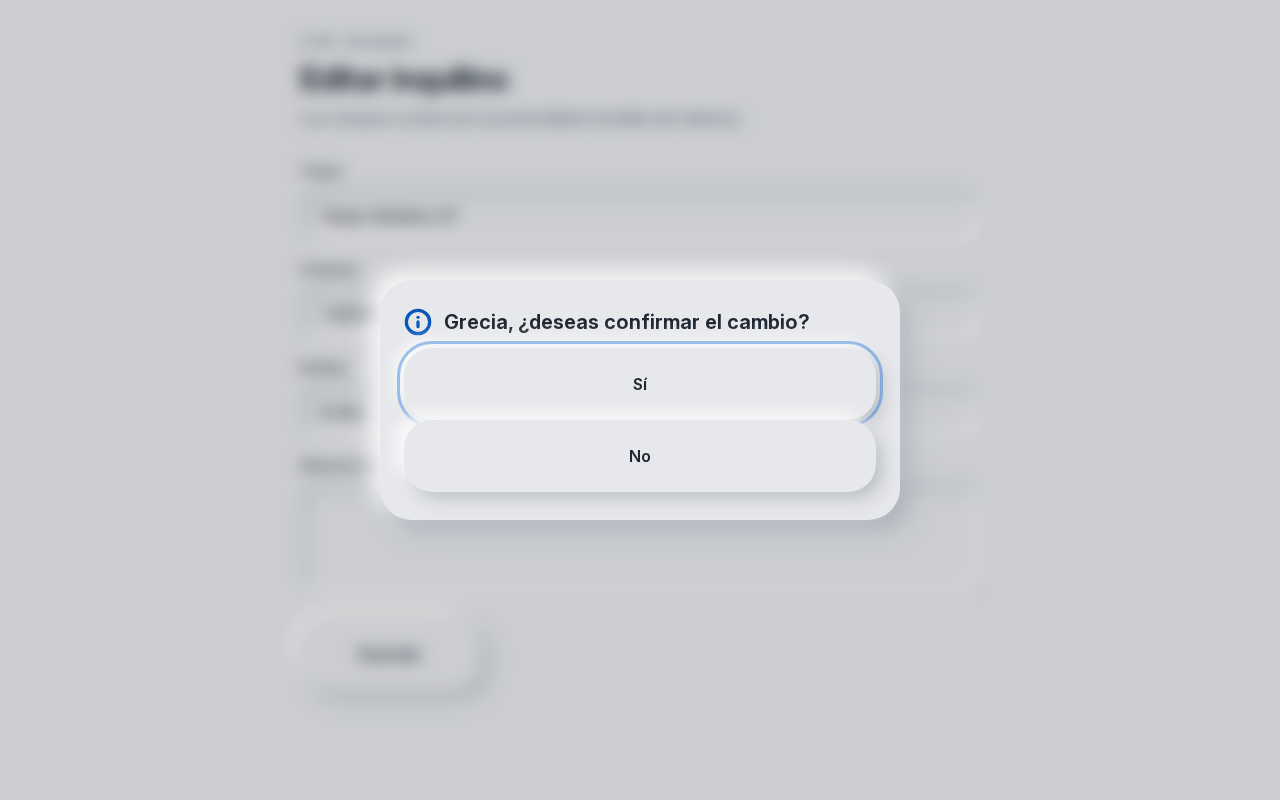
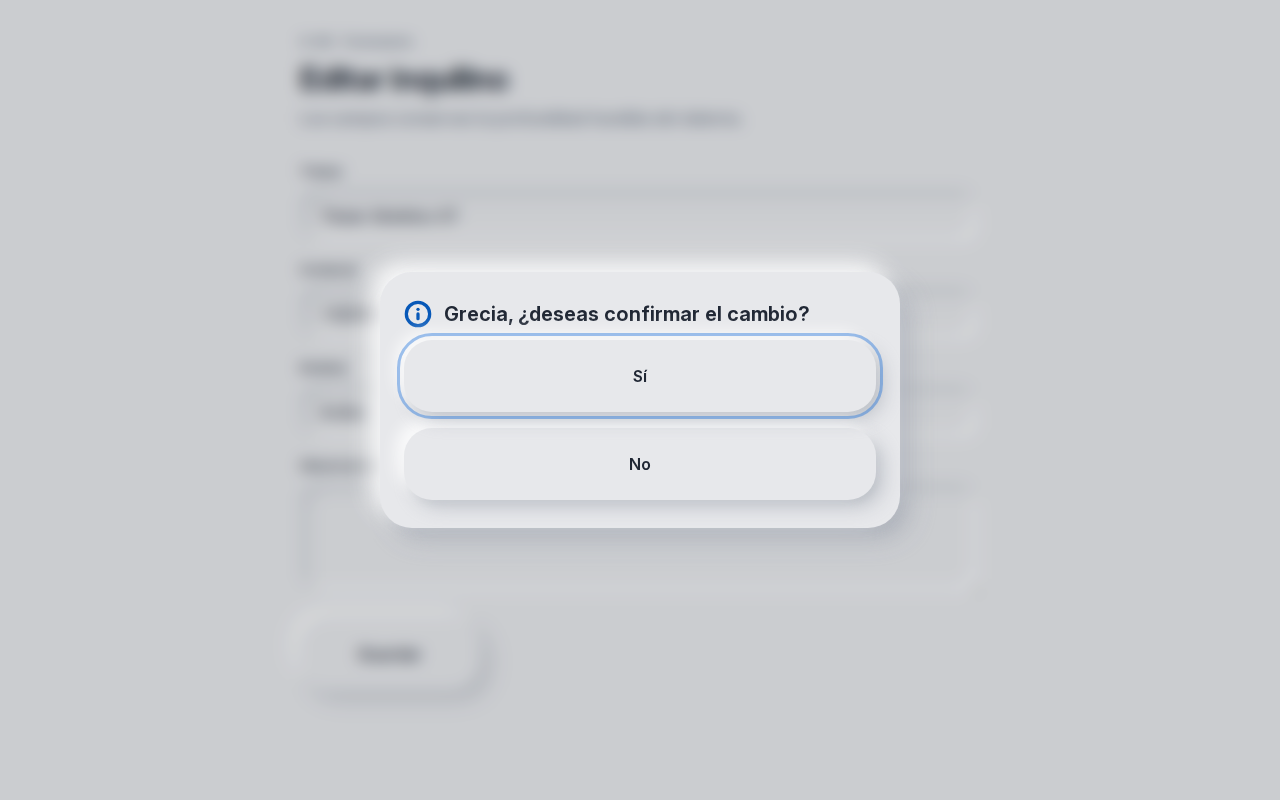
UI-23: corrección de foco y separación en ventanas, margen y aviso de deslizar en el reporte, enlace Volver

Changed region(s): [[0.3125, 0.5625, 0.7188, 0.6875], [0.3125, 0.375, 0.6875, 0.4375], [0.3125, 0.5, 0.6875, 0.5312]]

diff --git a/web/reporte/reporte.css b/web/reporte/reporte.css
@@ -28,7 +28,26 @@
 }
 
 .reporte__tabla {
+  width: calc(100% - var(--espacio-4));
+  max-width: calc(100% - var(--espacio-4));
   margin-top: var(--espacio-5);
+  scrollbar-color: var(--acento) rgba(89, 101, 117, 0.16);
+  scrollbar-width: auto;
+}
+
+.reporte__tabla::-webkit-scrollbar {
+  height: 12px;
+}
+
+.reporte__tabla::-webkit-scrollbar-track {
+  border-radius: var(--radio-pill);
+  background: rgba(89, 101, 117, 0.16);
+}
+
+.reporte__tabla::-webkit-scrollbar-thumb {
+  border: 3px solid var(--fondo);
+  border-radius: var(--radio-pill);
+  background: var(--acento);
 }
 
 .reporte__tabla table {
@@ -64,6 +83,36 @@
   margin: 0;
   padding: var(--espacio-5);
   color: var(--texto-secundario);
+}
+
+#app.reporte > .navegacion__volver {
+  color: var(--acento);
+  font-size: var(--texto-base);
+  font-weight: 600;
+  text-decoration: underline;
+  text-decoration-thickness: 1px;
+  text-underline-offset: 3px;
+}
+
+@media (max-width: 767px) {
+  .reporte__tabla::after {
+    position: sticky;
+    bottom: var(--espacio-2);
+    left: calc(100% - 92px);
+    z-index: 2;
+    display: block;
+    width: max-content;
+    margin-top: -34px;
+    padding: var(--espacio-1) var(--espacio-2);
+    border-radius: var(--radio-pill);
+    background: rgba(231, 232, 235, 0.94);
+    color: var(--acento);
+    box-shadow: var(--sombra-n1);
+    content: "Desliza \2192";
+    font-size: var(--texto-caption);
+    font-weight: 600;
+    pointer-events: none;
+  }
 }
 
 @media (min-width: 1024px) {

diff --git a/web/estilos/formulario.css b/web/estilos/formulario.css
@@ -113,6 +113,15 @@
   justify-content: center;
 }
 
+.ventana-confirmacion__contenido > .boton + .boton {
+  margin-top: var(--espacio-4);
+}
+
+.ventana-confirmacion__contenido > .boton:focus-visible {
+  position: relative;
+  z-index: 1;
+}
+
 .ventana-confirmacion__contenido > .formulario__mensaje-error {
   margin-top: var(--espacio-2);
 }

diff --git a/tests/ui/test_ui23_formularios.py b/tests/ui/test_ui23_formularios.py
@@ -76,6 +76,39 @@ def test_s07_reporte_contiene_su_desplazamiento(servicio_url, page):
     assert tabla.evaluate("el => getComputedStyle(el).overflowX") == "auto"
     assert tabla.evaluate("el => el.scrollWidth > el.clientWidth")
     assert tabla.evaluate("el => { el.scrollLeft = 240; return el.scrollLeft; }") > 0
+    caja_tabla = tabla.bounding_box()
+    assert MOVIL["width"] - caja_tabla["x"] - caja_tabla["width"] >= 36
+    assert "rgb(7, 88, 184)" in tabla.evaluate(
+        "el => getComputedStyle(el).scrollbarColor"
+    )
+    indicador_desplazamiento = tabla.evaluate(
+        """el => {
+          const estilo = getComputedStyle(el, '::after');
+          return { content: estilo.content, position: estilo.position };
+        }"""
+    )
+    assert indicador_desplazamiento == {
+        "content": '"Desliza →"',
+        "position": "sticky",
+    }
+    volver = page.locator(".navegacion__volver")
+    estilo_volver = volver.evaluate(
+        """el => {
+          const estilo = getComputedStyle(el);
+          return {
+            color: estilo.color,
+            fontSize: estilo.fontSize,
+            fontWeight: estilo.fontWeight,
+            textDecorationLine: estilo.textDecorationLine
+          };
+        }"""
+    )
+    assert estilo_volver == {
+        "color": "rgb(7, 88, 184)",
+        "fontSize": "16px",
+        "fontWeight": "600",
+        "textDecorationLine": "underline",
+    }
     _sin_desborde(page, 390)
     _capturar(page, "reporte", MOVIL)
 
@@ -99,6 +132,30 @@ def test_confirmacion_y_duplicado_son_hojas_inferiores(servicio_url, page):
     caja = contenido.bounding_box()
     assert abs(caja["y"] + caja["height"] - MOVIL["height"]) <= 2
     assert "c-modal" in (contenido.get_attribute("class") or "")
+    boton_si = page.locator("[data-confirmar-cambio]")
+    boton_no = page.locator("[data-no-confirmar-cambio]")
+    caja_si = boton_si.bounding_box()
+    caja_no = boton_no.bounding_box()
+    assert abs(caja_no["y"] - caja_si["y"] - caja_si["height"] - 16) <= 1
+    estilo_foco = boton_si.evaluate(
+        """el => {
+          const estilo = getComputedStyle(el);
+          return {
+            outlineColor: estilo.outlineColor,
+            outlineOffset: estilo.outlineOffset,
+            outlineStyle: estilo.outlineStyle,
+            outlineWidth: estilo.outlineWidth,
+            zIndex: estilo.zIndex
+          };
+        }"""
+    )
+    assert estilo_foco == {
+        "outlineColor": "rgba(10, 102, 217, 0.38)",
+        "outlineOffset": "4px",
+        "outlineStyle": "solid",
+        "outlineWidth": "3px",
+        "zIndex": "1",
+    }
     _capturar(page, "confirmacion", MOVIL, full_page=False)
 
     _capturar(page, "confirmacion", ESCRITORIO, full_page=False)
@@ -126,6 +183,13 @@ def test_confirmacion_y_duplicado_son_hojas_inferiores(servicio_url, page):
     page.wait_for_function(
         "document.getAnimations().every(animacion => animacion.playState === 'finished')"
     )
+    botones_duplicado = page.locator("[data-ventana-duplicado] .boton")
+    cajas_duplicado = [
+        botones_duplicado.nth(indice).bounding_box()
+        for indice in range(botones_duplicado.count())
+    ]
+    for anterior, siguiente in zip(cajas_duplicado, cajas_duplicado[1:]):
+        assert abs(siguiente["y"] - anterior["y"] - anterior["height"] - 16) <= 1
     _capturar(page, "duplicado", MOVIL, full_page=False)
     caja = contenido.bounding_box()
     assert abs(caja["y"] + caja["height"] - MOVIL["height"]) <= 2

diff --git a/plan/estado/Builder_UI_3.md b/plan/estado/Builder_UI_3.md
@@ -2,7 +2,7 @@
 
 Solo **Builder_UI_3** escribe en este archivo. Protocolo: `plan/REANUDAR.md`. Detalle de cada tarea: `plan/PLAN.md` (fase 2c).
 
-Última actualización: 2026-09-27 11:13 CST.
+Última actualización: 2026-09-27 11:43 CST.
 
 ## En curso
 
@@ -12,7 +12,8 @@ Solo **Builder_UI_3** escribe en este archivo. Protocolo: `plan/REANUDAR.md`. De
 
 | ID | Título | Estado | Espera |
 |---|---|---|---|
-| UI-23 | Rediseño de formulario, reporte y ventanas | hecha (pendiente de commit) | UI-21 (con commit y visto bueno del usuario) |
+| UI-23 | Rediseño de formulario, reporte y ventanas | hecha (4d7a7bd) | UI-21 (con commit y visto bueno del usuario) |
+| UI-23-corrección | Foco y separación de ventanas, tabla móvil y enlace Volver | hecha (pendiente de commit) | UI-23 (4d7a7bd) |
 
 ## Qué sigue
 
@@ -22,6 +23,8 @@ Sin tareas disponibles.
 
 - 2026-09-27 11:03 CST · UI-23 iniciada; dependencia UI-21 confirmada en `4820989` y visto bueno registrado.
 - 2026-09-27 11:13 CST · UI-23 hecha (pendiente de commit). Archivos exactos: `web/estilos/formulario.css`, `web/componentes/formulario.js`, `web/componentes/confirmacion.js`, `web/componentes/duplicado.js`, `web/reporte/reporte.css`, `web/reporte/reporte.js`, `web/muestras/formulario.html`, `tests/ui/test_ui23_formularios.py`, `evidencia/UI-23/formulario-390.png`, `evidencia/UI-23/formulario-1280.png`, `evidencia/UI-23/reporte-390.png`, `evidencia/UI-23/reporte-1280.png`, `evidencia/UI-23/confirmacion-390.png`, `evidencia/UI-23/confirmacion-1280.png`, `evidencia/UI-23/duplicado-390.png`, `evidencia/UI-23/duplicado-1280.png`, `evidencia/UI-23/pendientes-390.png`, `evidencia/UI-23/pendientes-1280.png`, `plan/estado/Builder_UI_3.md`. Pruebas: UI-23 `5 passed`; suite UI `68 passed`; contraste `PASA`; suite completa `142 passed, 1 failed` por la falla ajena conocida `tests/test_int13_acceso.py::test_dos_dispositivos_y_acceso_protegido`.
+- 2026-09-27 11:34 CST · UI-23 reconciliada con el commit `4d7a7bd`; UI-23-corrección iniciada por orden directa del usuario.
+- 2026-09-27 11:43 CST · UI-23-corrección hecha (pendiente de commit). Archivos exactos: `web/estilos/formulario.css`, `web/reporte/reporte.css`, `tests/ui/test_ui23_formularios.py`, `evidencia/UI-23/formulario-390.png`, `evidencia/UI-23/formulario-1280.png`, `evidencia/UI-23/reporte-390.png`, `evidencia/UI-23/reporte-1280.png`, `evidencia/UI-23/confirmacion-390.png`, `evidencia/UI-23/confirmacion-1280.png`, `evidencia/UI-23/duplicado-390.png`, `evidencia/UI-23/duplicado-1280.png`, `evidencia/UI-23/pendientes-390.png`, `evidencia/UI-23/pendientes-1280.png`, `plan/estado/Builder_UI_3.md`. Las 10 capturas se regeneraron y sus 10 hashes son distintos; cuatro quedaron idénticas a su versión comprometida. Pruebas: UI-23 `5 passed`; suite completa `142 passed, 1 failed` por la falla ajena conocida `tests/test_int13_acceso.py::test_dos_dispositivos_y_acceso_protegido`; sin fallas nuevas.
 
 ## Observaciones
 
